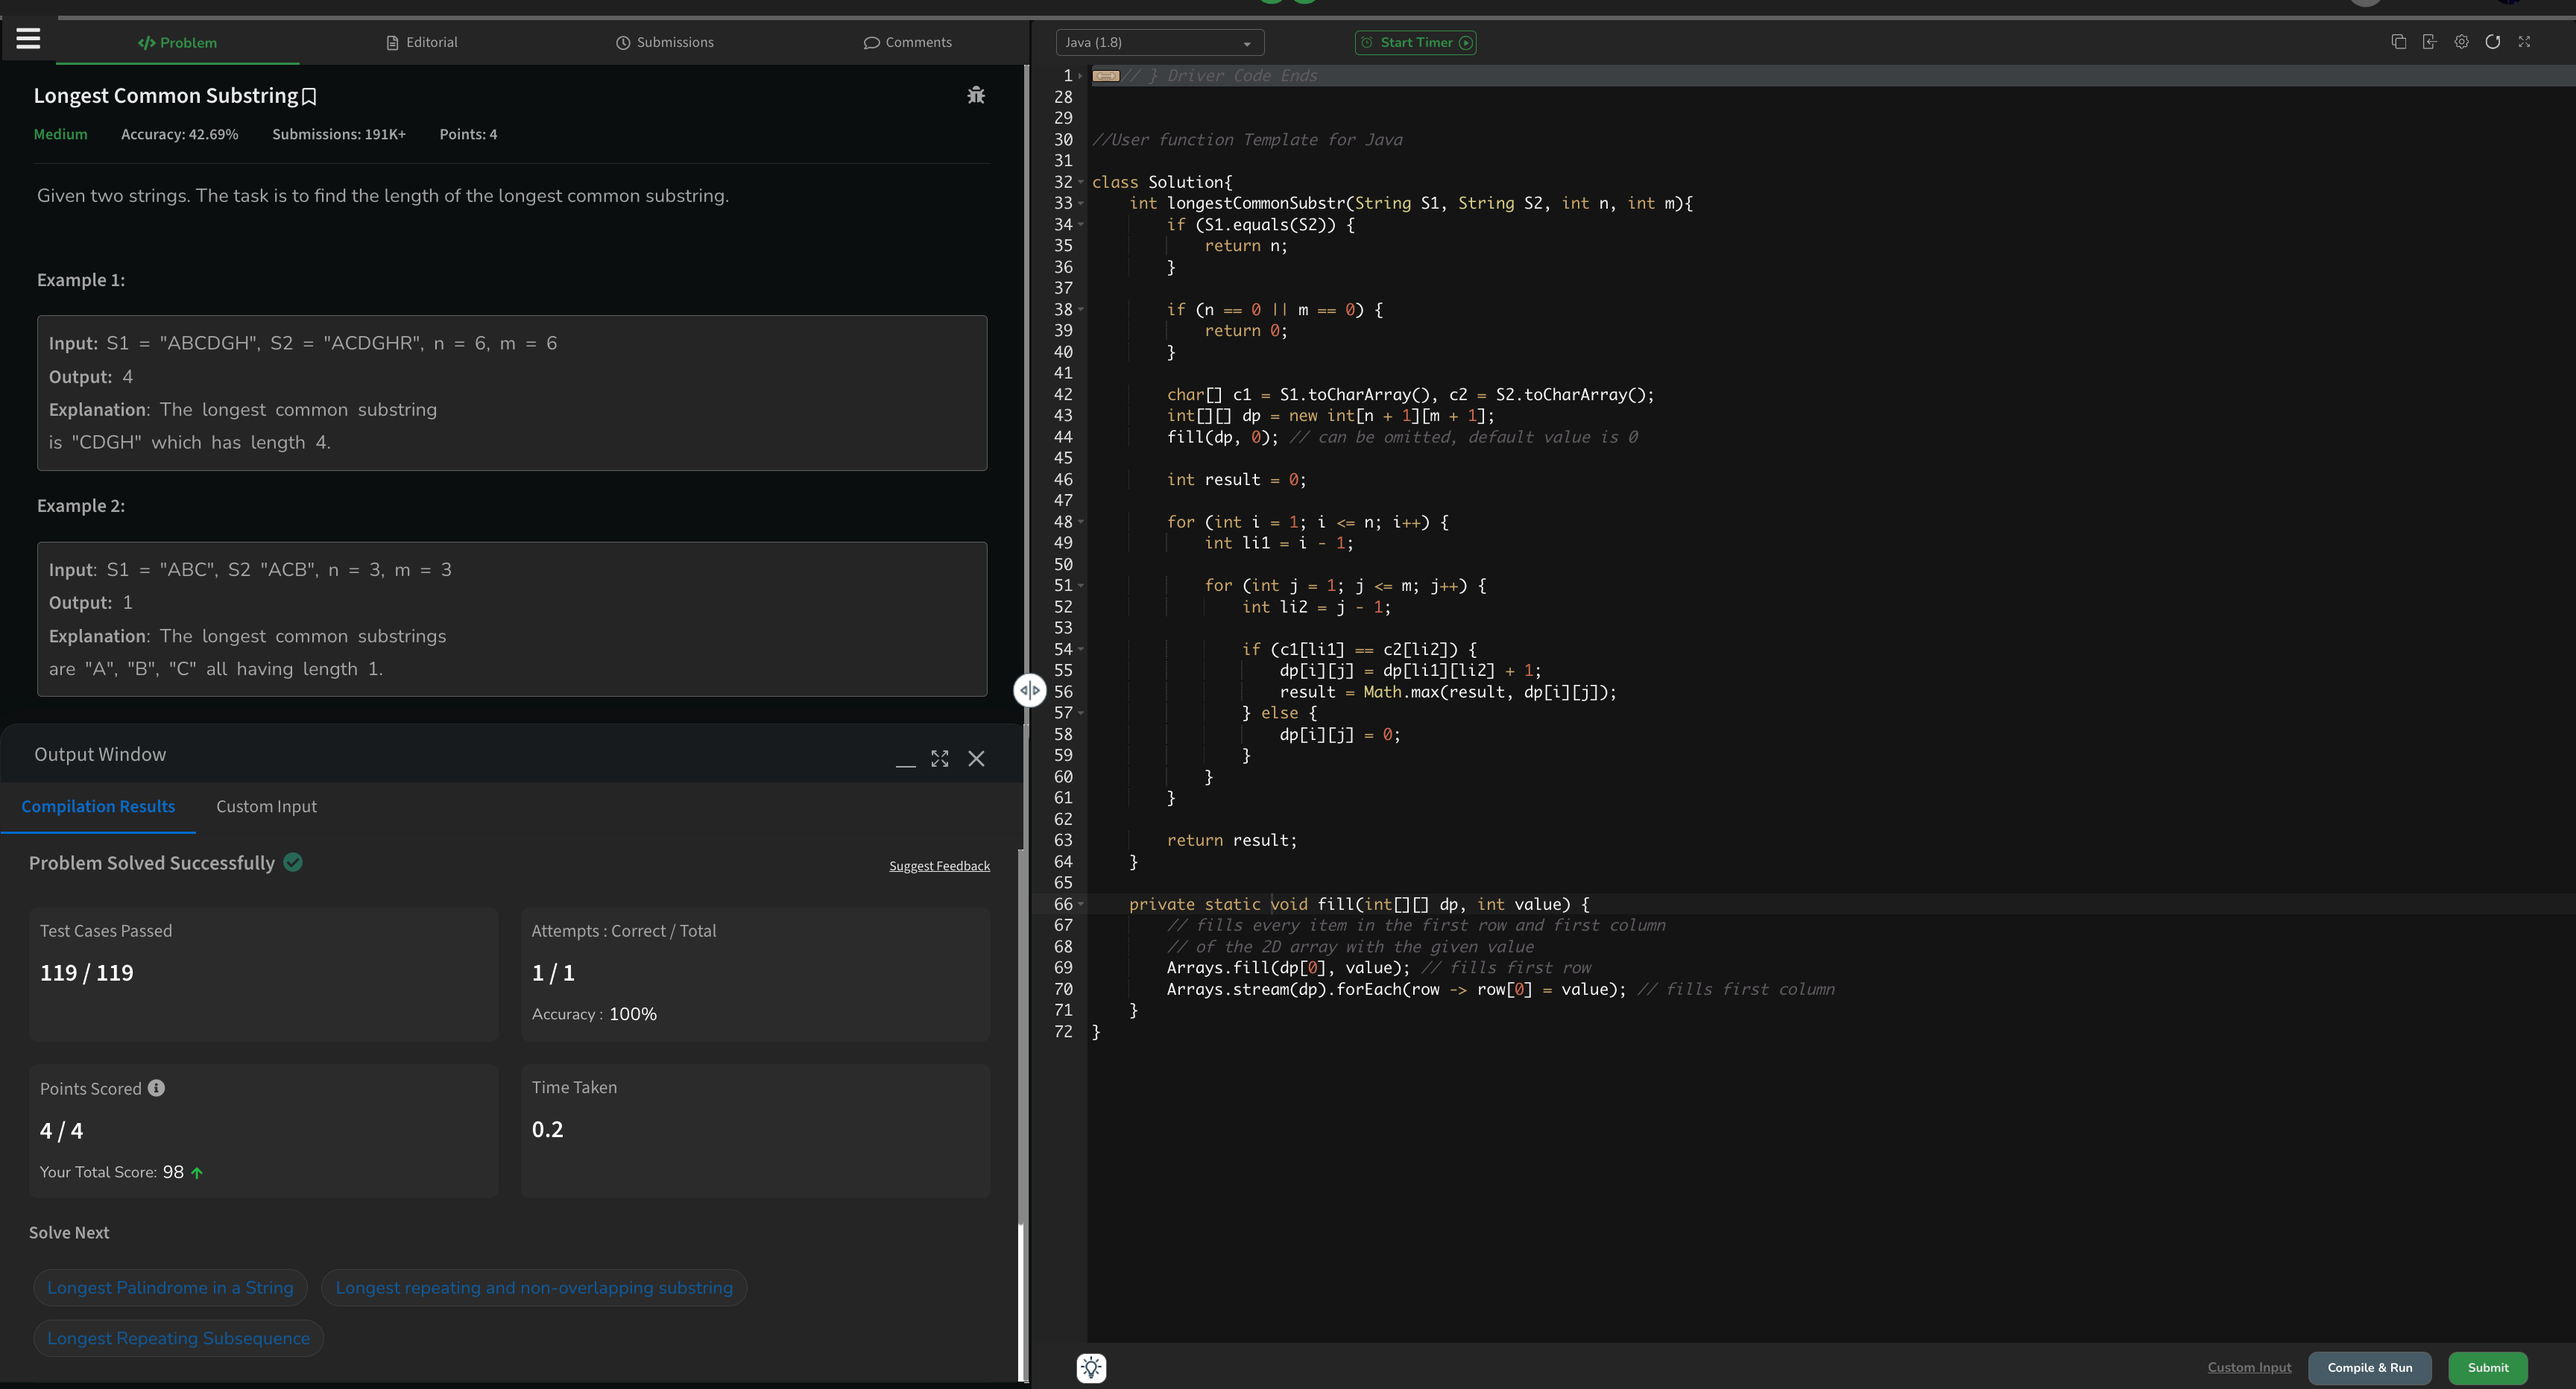
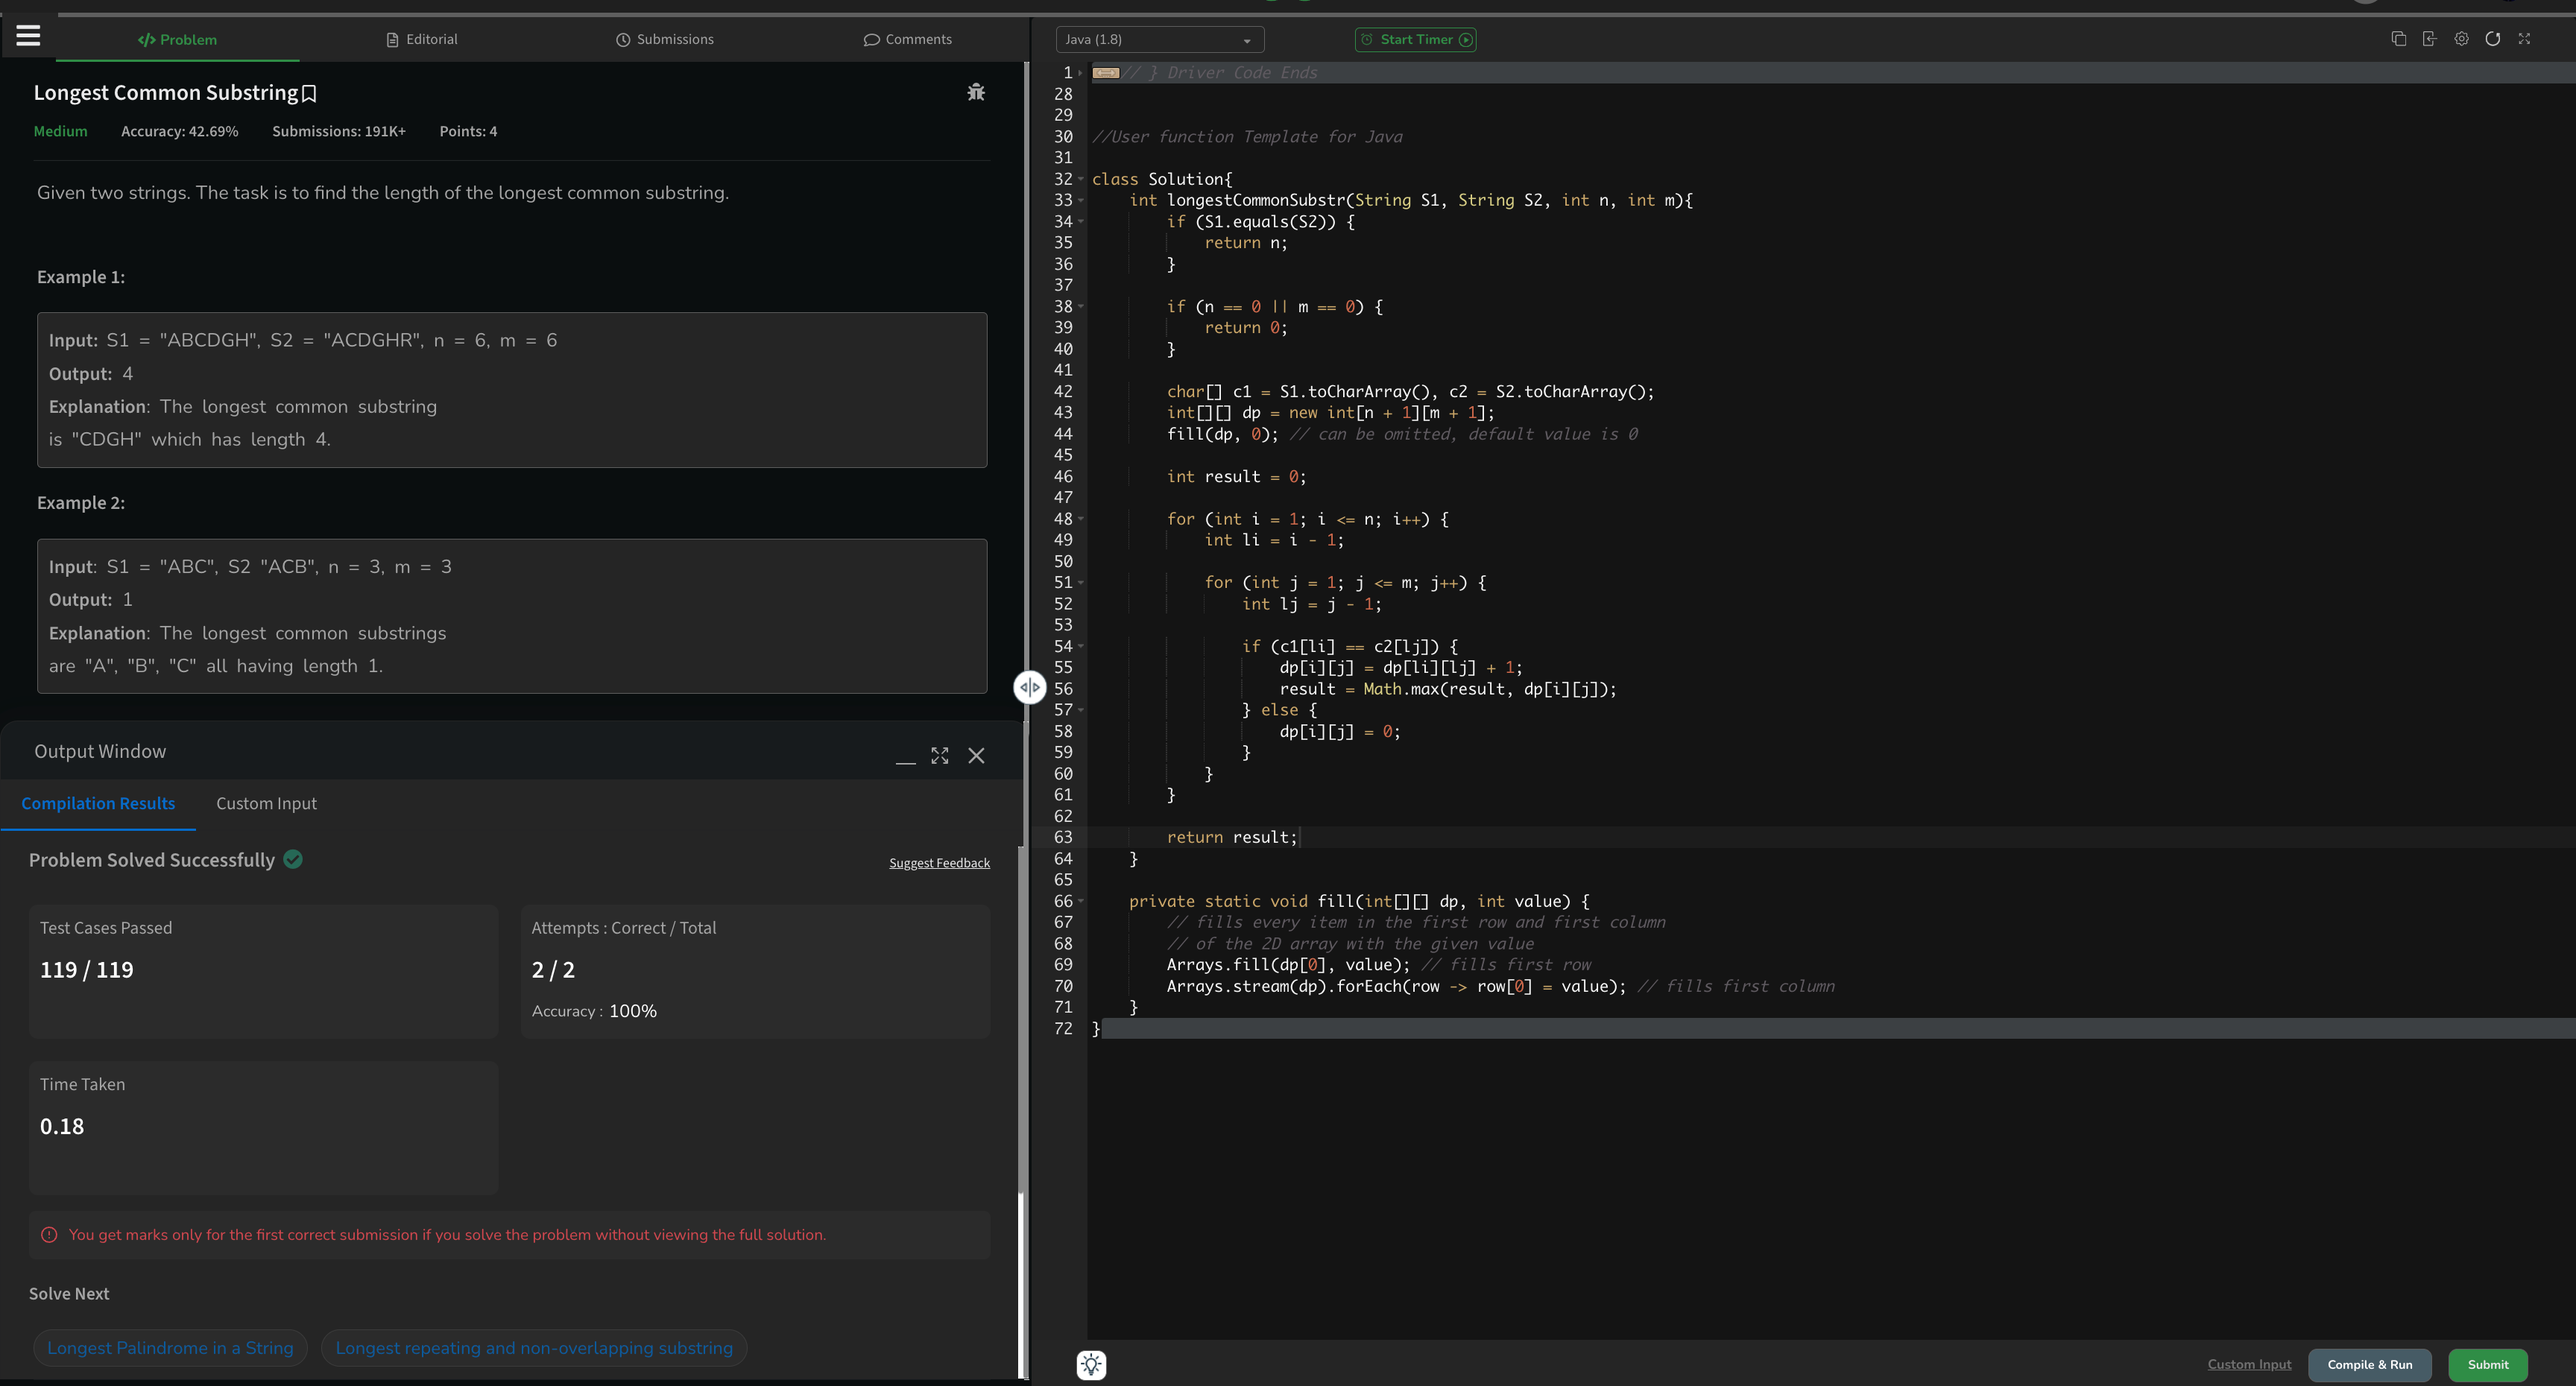
Variable rename: Longest Common Substring

diff --git a/242-longest-common-substring/001-solution/Solution.java b/242-longest-common-substring/001-solution/Solution.java
@@ -33,13 +33,13 @@ public class Solution {
         int result = 0;
 
         for (int i = 1; i <= n; i++) {
-            int li1 = i - 1;
+            int li = i - 1;
 
             for (int j = 1; j <= m; j++) {
-                int li2 = j - 1;
+                int lj = j - 1;
 
-                if (c1[li1] == c2[li2]) {
-                    dp[i][j] = dp[li1][li2] + 1;
+                if (c1[li] == c2[lj]) {
+                    dp[i][j] = dp[li][lj] + 1;
                     result = Math.max(result, dp[i][j]);
                 } else {
                     dp[i][j] = 0;
